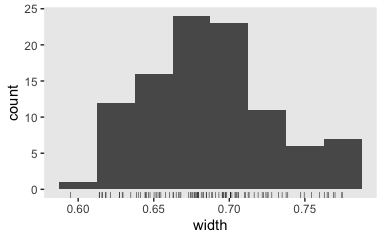
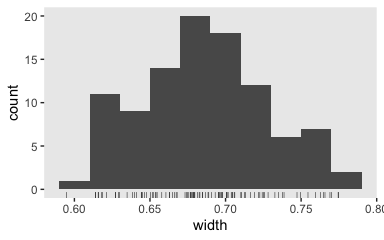
part II, 0.0.3, prose update

diff --git a/02.md b/02.md
@@ -1,12 +1,12 @@
-Bayesian power analysis: Part II
+Bayesian power analysis: Part II. Some might prefer precision to power.
 ================
 
 ## tl;dr
 
-There’s more to power analysis–or sample-size planning, at least–than
-making sure you can reject a null hypothesis. Bayesians might be
-interested in the precision-oriented approach. Stick around to learn
-what and
+When researchers decide on a sample size for an upcoming project, there
+are more things to consider than null-hypothesis-oriented power.
+Bayesian researchers might like to frame their concerns in terms of
+precision. Stick around to learn what and
 how.
 
 ## If all you want to do is reject \(H_0\), why not just drop Bayes altogether?
@@ -138,7 +138,8 @@ s3 %>%
 ![](02_files/figure-gfm/unnamed-chunk-4-1.png)<!-- -->
 
 Notice how this arrangement highlights the differences in widths among
-the intervals. Some were wider than others, but all tended to hover in a
+the intervals. The wider the interval, the less precise the estimate.
+Some intervals were wider than others, but all tended to hover in a
 similar range. We might quantify those ranges by computing a `width`
 variable.
 
@@ -171,8 +172,8 @@ s3 %>%
 ![](02_files/figure-gfm/unnamed-chunk-6-1.png)<!-- -->
 
 The widths of our 95% intervals range from 0.6 to 0.95, with the bulk
-sitting around 0.8. Let’s focus a bit and take a random sample of one of
-the models.
+sitting around 0.8. Let’s focus a bit and take a random sample from one
+of the simulation iterations.
 
 ``` r
 set.seed(1)
@@ -203,14 +204,14 @@ So instead of fucosing on rejecting a null hypothisis like
 instead use our power simulation to determine the sampel size we need to
 have most of our 95% intervals come in at a certain level of precision.
 This has been termed the accuracy in parameter estimation (AIPE;
-[Maxwell, Kelley, & Rausch,
-2008](\(https://www3.nd.edu/~kkelley/publications/articles/Maxwell_Kelley_Rausch_2008.pdf\));
+[Maxwell, Kelley, &
+Rausch, 2008](https://www3.nd.edu/~kkelley/publications/articles/Maxwell_Kelley_Rausch_2008.pdf);
 see also
 [Kruschke, 2014](http://www.indiana.edu/~kruschke/DoingBayesianDataAnalysis/))
 approach to sample size planning.
 
-Thinking in terms of AIPE, let’s say we wanted widths of 0.7 or smaller.
-Here’s how we did with `s3`.
+Thinking in terms of AIPE, in terms of precision, let’s say we wanted
+widths of 0.7 or smaller. Here’s how we did with `s3`.
 
 ``` r
 s3 %>% 
@@ -224,23 +225,23 @@ s3 %>%
     ## 1          0.08
 
 We did terrible. I’m not sure the term “width power” is even a thing.
-But hopefully you get the point. Our baby 100-iteration analysis
+But hopefully you get the point. Our baby 100-iteration simulation
 suggests we have about a .08 probability of achieving 95% CI widths of
 0.7 or smaller with \(n = 50\) per group. Though we’re pretty good at
 excluding zero, we don’t tend to do so with precision above that.
 
 That last bit about excluding zero brings up an important point. Once
-we’re concerned about width size, the null hypothesis is no longer of
-direct relevance. And since we’re no longer wed to thinking in terms of
-the null hypothesis, there’s no real need to stick with a .8 threshold
-for evaluating width power (okay, I’ll stop using that term). Now if we
-wanted to stick with .8, we could. Though a little nonsensical, the .8
-criterion would give our AIPE analyses a sense of familiarity with
-traditional power analyses, which some reviewers might appreciate. But
-in his text, Kruschke mentioned several other alternatives. One would be
-to set maximum value for our CI widths and simulate to find the \(n\)
-necessary so all our simulations pass that criterion. Another would
-follow Joseph, Wolfson, and du Berger
+we’re concerned about width size, about precision, the null hypothesis
+is no longer of direct relevance. And since we’re no longer wed to
+thinking in terms of the null hypothesis, there’s no real need to stick
+with a .8 threshold for evaluating width power (okay, I’ll stop using
+that term). Now if we wanted to stick with .8, we could. Though a little
+nonsensical, the .8 criterion would give our AIPE analyses a sense of
+familiarity with traditional power analyses, which some reviewers might
+appreciate. But in his text, Kruschke mentioned several other
+alternatives. One would be to set maximum value for our CI widths and
+simulate to find the \(n\) necessary so all our simulations pass that
+criterion. Another would follow Joseph, Wolfson, and du Berger
 ([1995a](http://www.medicine.mcgill.ca/epidemiology/Joseph/publications%5CMethodological%5Css_binom.pdf),
 [1995b](http://www.med.mcgill.ca/epidemiology/Joseph/publications/Methodological/ss_hpd.pdf)),
 who suggested we shoot for an \(n\) that produces widths that pass that
@@ -283,9 +284,9 @@ s4 %>%
 
 ![](02_files/figure-gfm/unnamed-chunk-10-1.png)<!-- -->
 
-There’s still diversity among their widths, but they all now hover more
-tightly around their true data-generating value of 0.5. Here’s our
-updated power for producing interval widths smaller than 0.7.
+Some of the intervals are still more precise than others, but they all
+now hover more tightly around their true data-generating value of 0.5.
+Here’s our updated power for producing interval widths smaller than 0.7.
 
 ``` r
 s4 %>% 
@@ -357,7 +358,7 @@ s5 %>%
 Two of our simulated widths were pretty close to the 0.7 boundary. If we
 were to do a proper simulation with 1000+ iterations, I’d worry one or
 two would creep over that boundary. So perhaps \(n = 90\) would be a
-better candidate. But you get the idea.
+better candidate for a large-scale simulation.
 
 If we just wanted to meet the mean-precision criterion, we might look at
 something like \(n = 65\).
@@ -388,7 +389,7 @@ candidate for a larger-scale simulation. Here’s the distribution.
 ``` r
 s6 %>% 
   ggplot(aes(x = width)) +
-  geom_histogram(binwidth = .025) +
+  geom_histogram(binwidth = .02) +
   geom_rug(size = 1/6)
 ```
 
@@ -423,7 +424,7 @@ Yep. Here’s the distribution.
 ``` r
 s7 %>% 
   ggplot(aes(x = width)) +
-  geom_histogram(binwidth = .025) +
+  geom_histogram(binwidth = .02) +
   geom_rug(size = 1/6)
 ```
 
@@ -437,19 +438,19 @@ threshold. Another consequence of dropping our focus on rejecting
 \(H_0\) is that it no longer seems necessary to evaluate our posteriors
 with 95% intervals. And as it turns out, some Bayesians aren’t fans of
 the 95% interval. McElreath, for example, defiantly used 89% intervals
-in his [text](http://xcelab.net/rm/statistical-rethinking/) and Gelman
-has
+in his [text](http://xcelab.net/rm/statistical-rethinking/). In
+contrast, Gelman has
 [blogged](https://statmodeling.stat.columbia.edu/2016/11/05/why-i-prefer-50-to-95-intervals/)
-on his fondness for 50% intervals. We’ll follow along and practice
-evaluating an \(n\) based on 50% intervals. This will require us to
-update our `sim_d_and_fit()` function to allow us to change the `prob`
-setting in the `broom::tidy()` function.
+on his fondness for 50% intervals. Just for kicks, let’s follow Gelman’s
+lead and practice evaluating an \(n\) based on 50% intervals. This will
+require us to update our `sim_d_and_fit()` function to allow us to
+change the `prob` setting in the `broom::tidy()` function.
 
 ``` r
 sim_d_and_fit <- function(seed, n, prob) {
   
-  mu_t <- .5
   mu_c <- 0
+  mu_t <- 0.5
   
   set.seed(seed)
   
@@ -520,7 +521,7 @@ s9 %>%
 ![](02_files/figure-gfm/unnamed-chunk-21-1.png)<!-- -->
 
 Nope, we’re not there yet. Perhaps \(n = 200\) or \(250\) is the ticket.
-You get the idea. Anyway, once we’re talking that
+This is an iterative process. Anyway, once we’re talking that
 AIPE/precision/interval-width talk, we can get all kinds of creative
 with which intervals we’re even interested in. As far as I can tell, the
 topic is wide open for fights and collaborations between statisticians,
